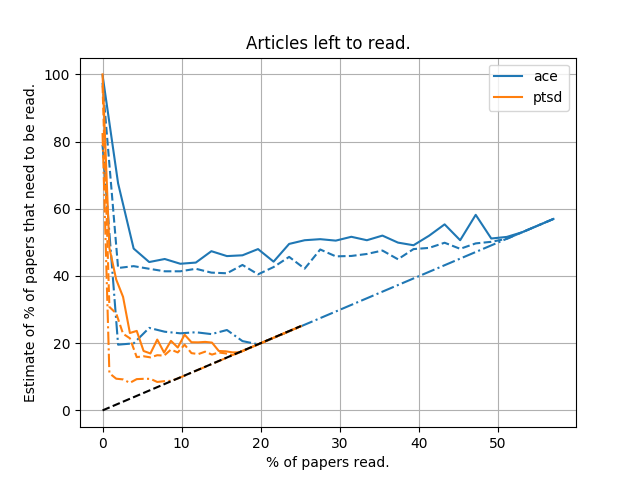
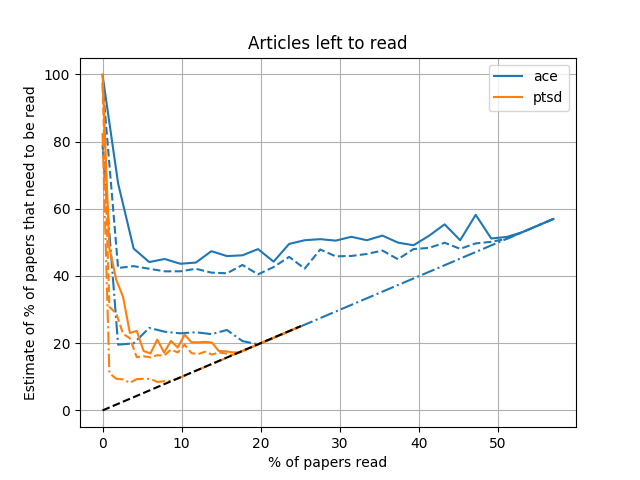
Remove periods from plots

Changed region(s): [[0.0312, 0.1562, 0.0625, 0.8438], [0.375, 0.0625, 0.6562, 0.125], [0.4062, 0.9375, 0.625, 1.0]]

diff --git a/asreviewcontrib/visualization/plot.py b/asreviewcontrib/visualization/plot.py
@@ -85,7 +85,7 @@ class Plot():
             plt.hist(avg_times, 30, histtype='bar', density=True,
                      label=self.analyses.keys())
             plt.xlabel("% Reviewed")
-            plt.ylabel("Fraction of papers included.")
+            plt.ylabel("Fraction of papers included")
         plt.legend()
         plt.show()
 
@@ -196,6 +196,6 @@ class Plot():
             plt.xlabel("# of papers read")
             plt.ylabel("Estimate of # of papers that need to be read")
         plt.legend(legend_plt, legend_name, loc="upper right")
-        plt.title("Articles left to read.")
+        plt.title("Articles left to read")
         plt.grid()
         plt.show()
